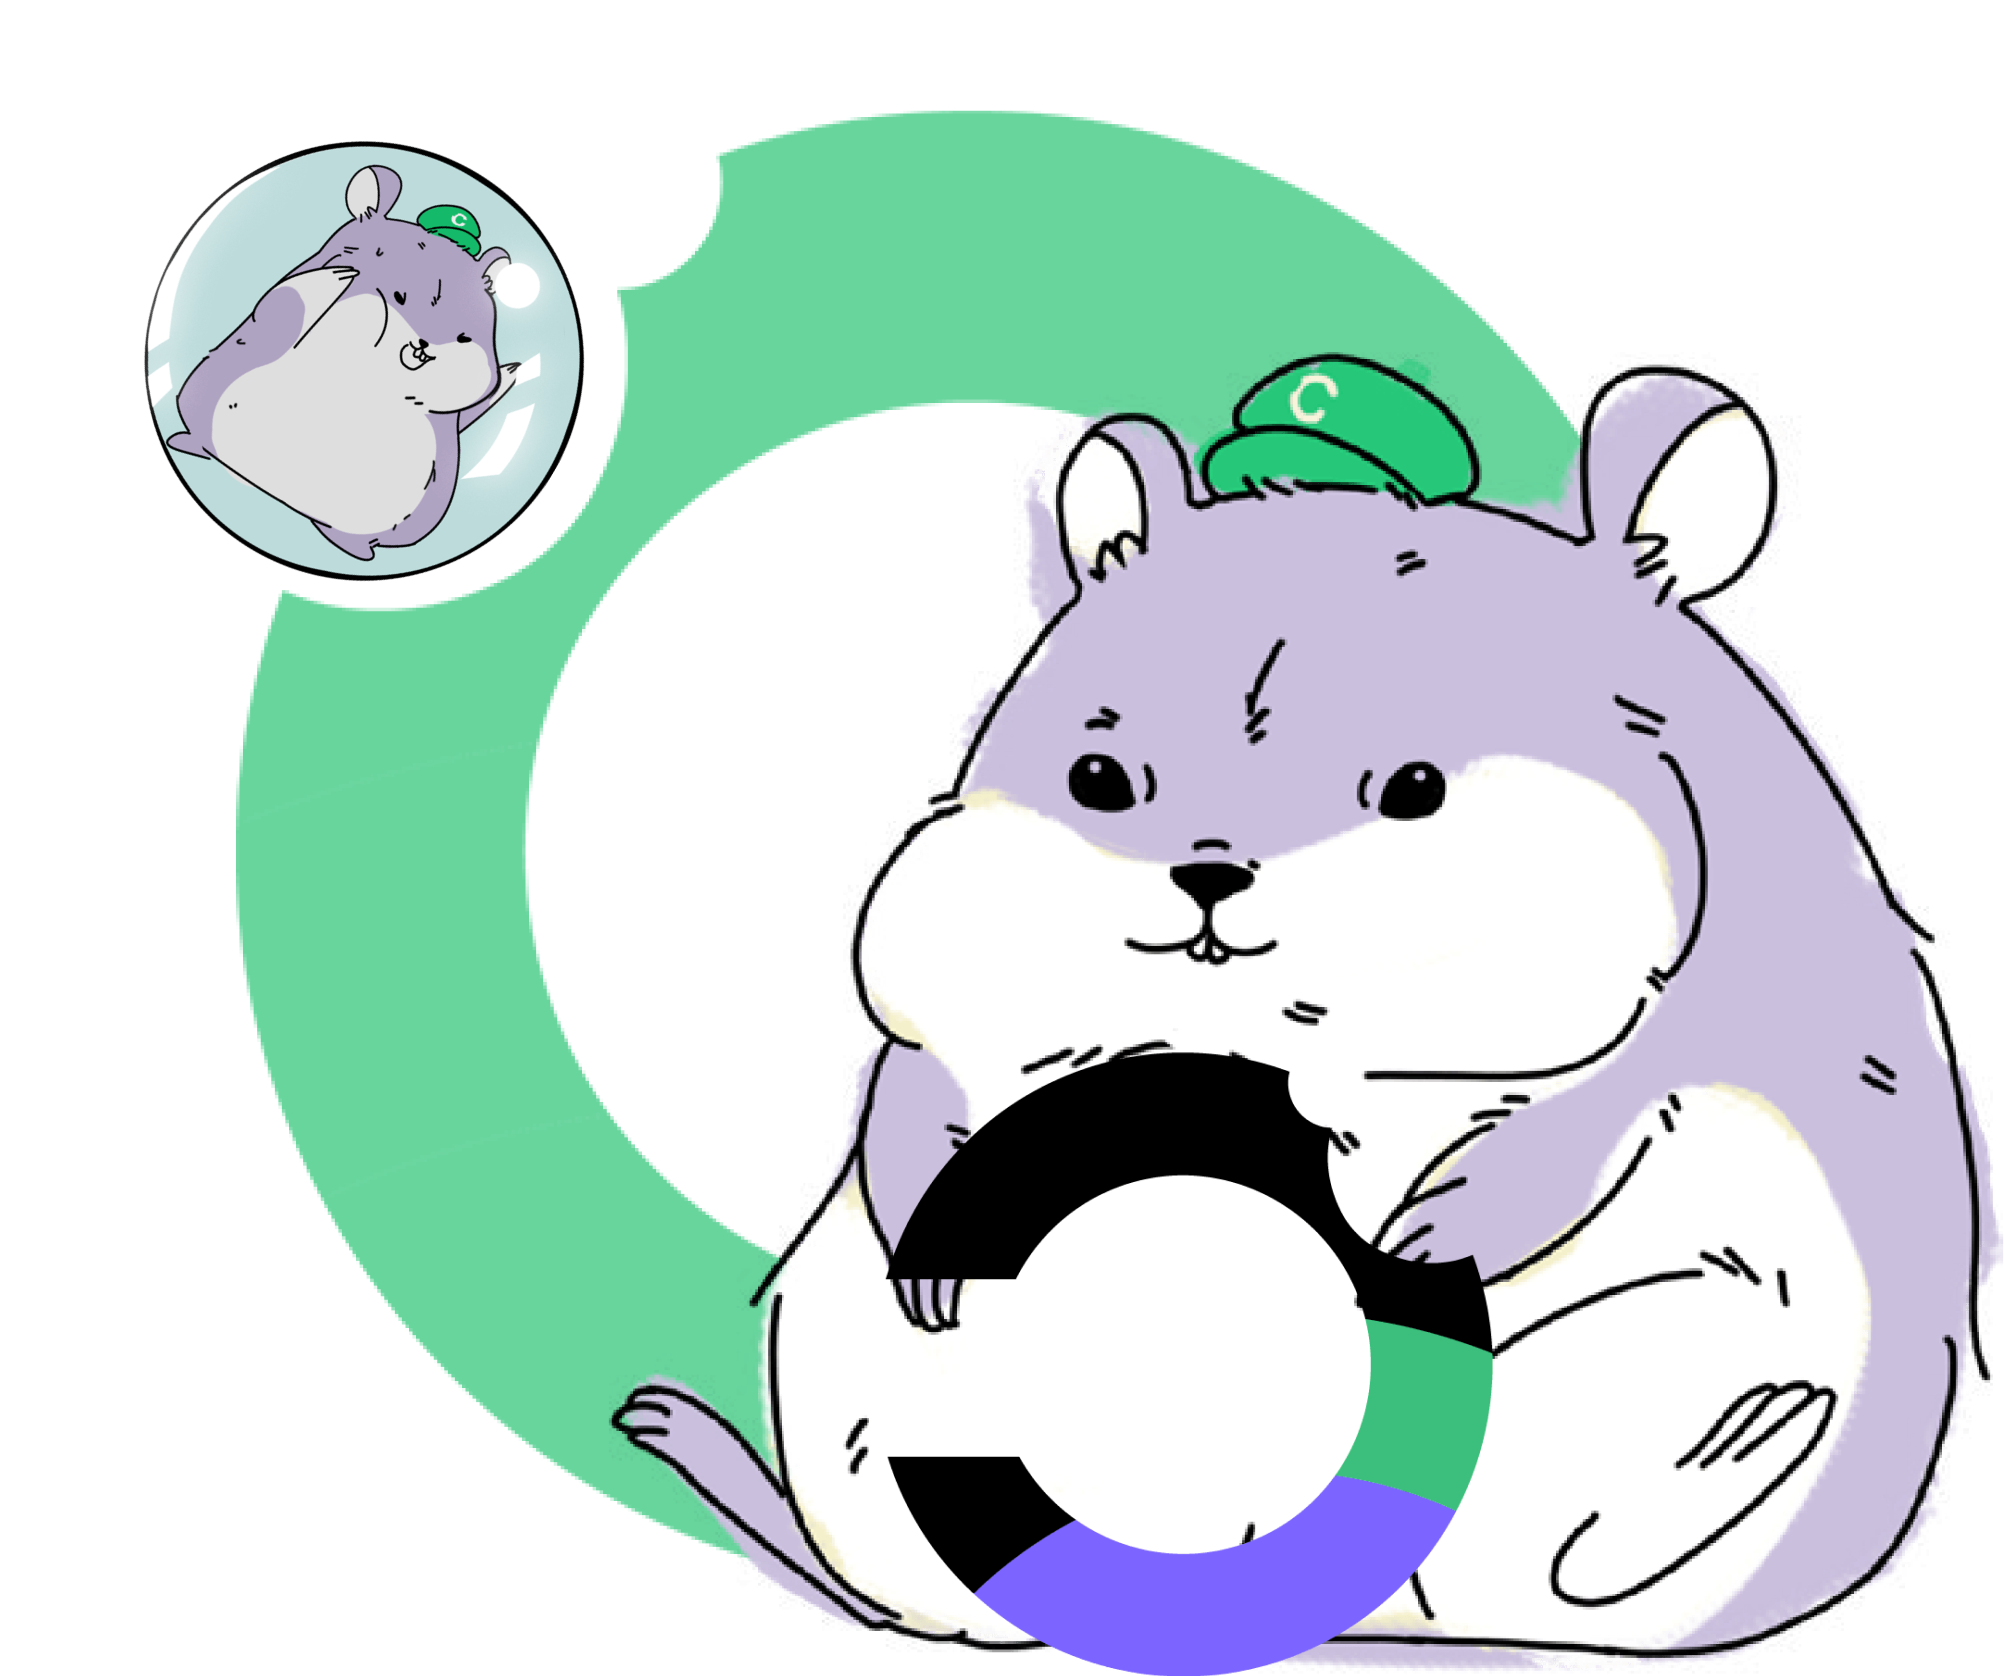
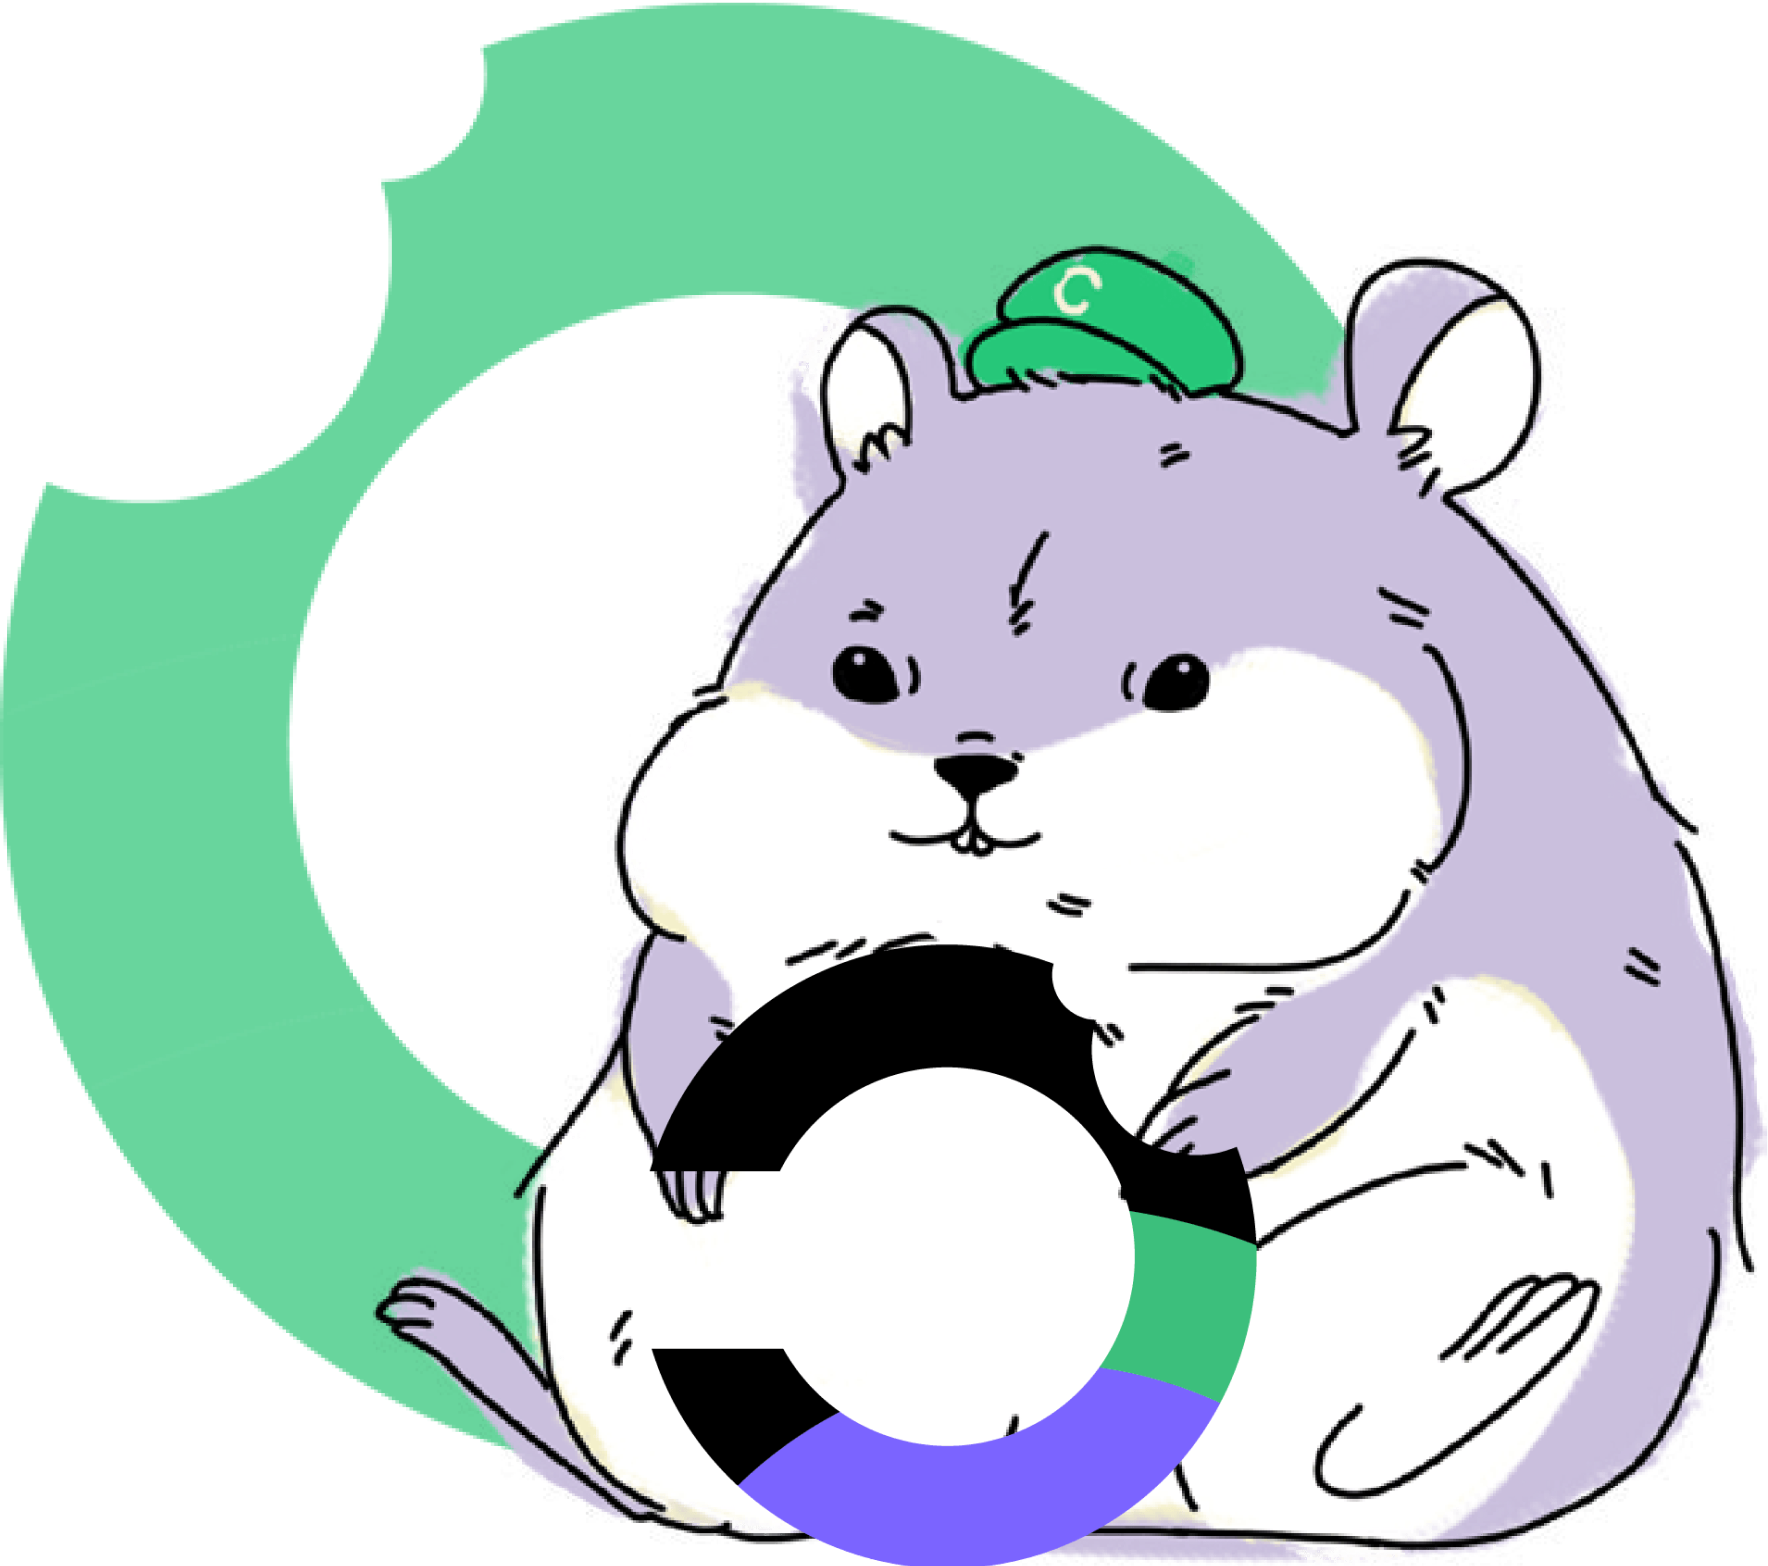
fix: responsive

diff --git a/src/pages/index.tsx b/src/pages/index.tsx
@@ -74,6 +74,10 @@ const Home: NextPage = () => {
               src="/assets/images/hamster-top-c.png"
               className="w-[500px] h-auto md:mt-[-100px]"
             />
+            <img
+              src="/assets/images/circle-astronaunt-hamster.png"
+              className="top-circle-astronaunt-hamster spin-el"
+            />
           </div>
         </div>
         <div
@@ -136,7 +140,7 @@ const Home: NextPage = () => {
             A powerful toolbox for game studios and gamers to easily get started
             on their web3 gaming journey.
           </p>
-          <div className="md:items-center md:flex md:justify-center mt-[30px]">
+          <div className="md:items-center grid lg:flex md:justify-center mt-[30px] items-center">
             <div className="float-left flex">
               <div className="float-left md:pr-[50px]">
                 <h3 className="text-blurPurple text-[100px] md:text-[200px] leading-[1]">
@@ -278,12 +282,12 @@ const Home: NextPage = () => {
           src="/assets/images/purple-b.png"
           className="absolute w-full right-0 left-0 top-0 h-[630px] hidden md:block"
         />
-        <div className="relative mx-[20px] md:mx-[130px]">
-          <h1 className="uppercase text-[40px] md:text-[69px] leading-[1]">
+        <div className="relative mx-[20px] lg:mx-[130px]">
+          <h1 className="uppercase text-[40px] lg:text-[50px] xl:text-[69px] leading-[1]">
             Transform the future of <br />{" "}
             <span className="md:text-[90px] text-green">WEB3</span>{" "}
           </h1>
-          <div className="game-with-wrapper block md:hidden">
+          <div className="game-with-wrapper block lg:hidden">
             <h3 className="text-[40px] leading-[1] uppercase">Gaming with</h3>
             <h3 className="text-purple text-[71px] leading-[1] uppercase">
               Hamster
@@ -291,10 +295,10 @@ const Home: NextPage = () => {
             </h3>
           </div>
           <div className="flex">
-            <div className="relative ml-[100px] float-left">
+            <div className="relative ml-[100px] float-left md:absolute md:right-0 md:top-[100px] lg:relative">
               <img
                 src="/assets/images/astronaunt-hamster.png"
-                className="w-[314px] md:w-[530px] h-[auto] relative right-[-30px] md:right-[-100px] top-[-80px] md:top-[-100px] mvup"
+                className="w-[314px] md:w-[490px] lg:w-[530px] h-[auto] relative right-[-30px] lg:right-[-100px] top-[-80px] lg:top-[-100px] mvup"
               />
               <div
                 className="contact-right-wrapper absolute top-[50px] md:top-[200px] left-[-50px] md:left-[20px]"
@@ -334,9 +338,11 @@ const Home: NextPage = () => {
                 </div>
               </div>
             </div>
-            <div className="game-with-wrapper hidden md:block">
-              <h3 className="text-[58px] leading-[1] uppercase">Gaming with</h3>
-              <h3 className="text-purple text-[70px] md:text-[130px] leading-[1] uppercase">
+            <div className="game-with-wrapper hidden lg:block">
+              <h3 className="text-[40px] lg:text-[58px] leading-[1] uppercase">
+                Gaming with
+              </h3>
+              <h3 className="text-purple text-[70px] lg:text-[90px] xl:text-[130px] leading-[1] uppercase">
                 Hamster
                 <br /> box
               </h3>
@@ -351,7 +357,7 @@ const Home: NextPage = () => {
             />
             <img
               src="/assets/images/circle-astronaunt-hamster.png"
-              className="absolute right-0 bottom-[160px] md:right-[150px] md:bottom-[120px] w-[40px] md:w-[70px] md:h-[70px] spin-el"
+              className="absolute right-0 bottom-[160px] md:right-[150px] md:bottom-[-40px] lg:bottom-[120px] w-[40px] md:w-[70px] md:h-[70px] spin-el"
             />
           </div>
         </div>

diff --git a/styles/globals.scss b/styles/globals.scss
@@ -177,3 +177,66 @@
 .mvup {
   animation: MoveUpDown 3.5s linear infinite;
 }
+
+.top-circle-astronaunt-hamster {
+  position: absolute;
+  @media screen and (min-width: 1300px) {
+    width: 135px;
+    top: -80px;
+    left: 60px;
+  }
+  
+  @media screen and (max-width: 1300px) {
+    width: 125px;
+    top: -85px;
+    left: 60px;
+  }
+
+  @media screen and (max-width: 1200px) {
+    width: 125px;
+    top: -95px;
+    left: 55px;
+  }
+
+  @media screen and (max-width: 1100px) {
+    width: 120px;
+    top: -100px;
+    left: 50px;
+  }
+
+  @media screen and (max-width: 998px) {
+    width: 100px;
+    top: -95px;
+    left: 60px;
+  }
+
+  @media screen and (max-width: 940px) {
+    width: 70px;
+    top: -75px;
+    left: 76px;
+  }
+
+  @media screen and (max-width: 920px) {
+    width: 60px;
+    top: -90px;
+    left: 76px;
+  }
+
+  @media screen and (max-width: 820px) {
+    width: 50px;
+    top: -95px;
+    left: 70px;
+  }
+
+  @media screen and (max-width: 768px) {
+    width: 170px;
+    top: 23px;
+    left: -30px;
+  }
+
+  @media screen and (max-width: 508px) {
+    width: 120px;
+    top: 23px;
+    left: -30px;
+  }
+}
